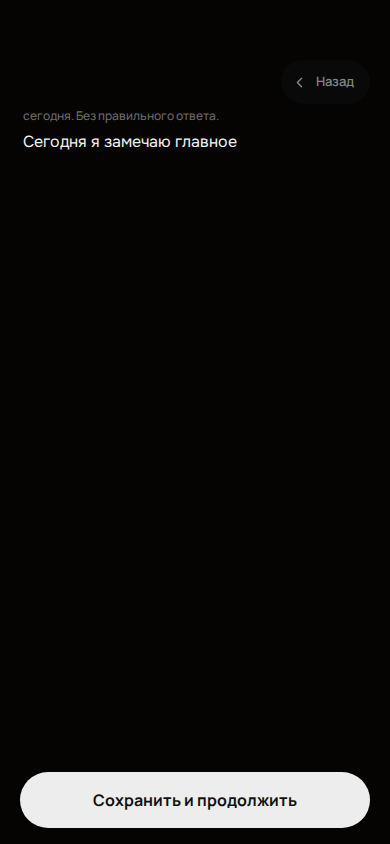
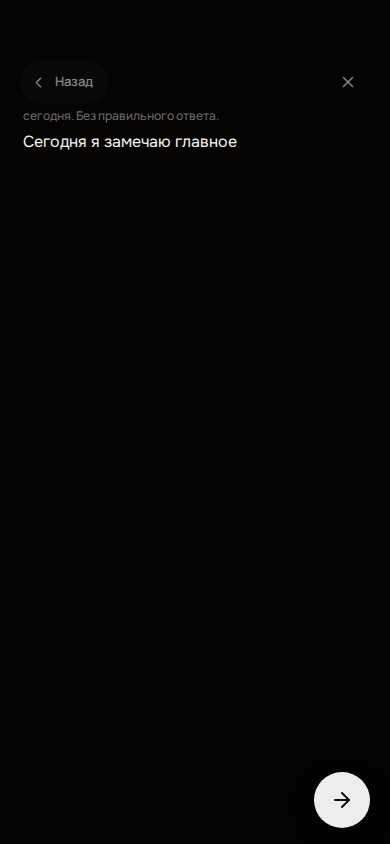
fix: guided self-discovery UX follow-up (#689)

diff --git a/src/screens/GuidedSelfDiscoveryFlow.jsx b/src/screens/GuidedSelfDiscoveryFlow.jsx
@@ -1,6 +1,7 @@
 import { getFullscreenPortalTarget } from '../lib/fullscreenSurface'
 import { useState } from 'react'
 import { createPortal } from 'react-dom'
+import { X } from 'lucide-react'
 
 import BackButton from '../components/BackButton'
 import PracticeWritingCanvas from '../components/PracticeWritingCanvas'
@@ -86,7 +87,7 @@ function emptyAnswers() {
 
 function FlowBack({ onClick }) {
   // В Telegram — только native BackButton (компонент сам монтирует hook и не рисует UI).
-  // В web — видимый app-back в header slot.
+  // В web — видимые Back и Close-кнопки в header slot.
   if (platformName === 'telegram') {
     return <BackButton onClick={onClick} />
   }
@@ -95,6 +96,14 @@ function FlowBack({ onClick }) {
       className={`${FULLSCREEN_HEADER_SLOT_CLASS} guided-self-discovery__topbar flex items-center px-5`}
     >
       <BackButton onClick={onClick} />
+      <button
+        type="button"
+        aria-label="Закрыть"
+        onClick={onClick}
+        className="guided-self-discovery__close"
+      >
+        <X size={18} aria-hidden="true" />
+      </button>
     </div>
   )
 }
@@ -313,6 +322,7 @@ export default function GuidedSelfDiscoveryFlow({ userId, onClose }) {
           <FlowBack onClick={goBack} />
           <div className={FULLSCREEN_SCROLL_CLASS}>
             <PracticeWritingCanvas
+              key={step.key}
               value={value}
               onChange={next => updateAnswer(step.key, next)}
               question={step.title}
@@ -340,7 +350,11 @@ export default function GuidedSelfDiscoveryFlow({ userId, onClose }) {
         />
       )}
 
-      <WebActionBar action={action} />
+      <WebActionBar
+        action={action}
+        compact={stage === 'writing'}
+        className="guided-self-discovery__action-bar"
+      />
     </div>,
     getFullscreenPortalTarget()
   )

diff --git a/src/screens/GuidedSelfDiscoveryFlow.css b/src/screens/GuidedSelfDiscoveryFlow.css
@@ -3,7 +3,22 @@
 }
 
 .mx-practice-flow--self-discovery .guided-self-discovery__topbar {
-  justify-content: flex-end;
+  justify-content: space-between;
+}
+
+.mx-practice-flow--self-discovery .guided-self-discovery__close {
+  display: grid;
+  width: 44px;
+  height: 44px;
+  place-items: center;
+  border: 0;
+  border-radius: 50%;
+  background: rgb(var(--c-emerald));
+  color: rgb(var(--c-muted));
+}
+
+.mx-practice-flow--self-discovery .guided-self-discovery__close:active {
+  transform: scale(0.95);
 }
 
 .mx-practice-flow--self-discovery .guided-self-discovery__intro {
@@ -325,6 +340,26 @@
   color: rgb(var(--c-muted));
   font-size: 13px;
   font-weight: 600;
+}
+
+/* Journal web/PWA only: mirror Stoic's compact bottom-right next action. */
+.mx-practice-flow--self-discovery .guided-self-discovery__action-bar .mx-reference-next {
+  display: grid;
+  width: 56px;
+  height: 56px;
+  min-height: 56px;
+  margin-left: auto;
+  padding: 0;
+  place-items: center;
+  border: 0;
+  border-radius: 50%;
+  background: var(--btn-bg);
+  color: var(--btn-text);
+  box-shadow: var(--shadow-float-compact);
+}
+
+.mx-practice-flow--self-discovery .guided-self-discovery__action-bar .mx-reference-next:disabled {
+  opacity: 0.4;
 }
 
 @media (max-height: 650px) {

diff --git a/src/components/WebActionBar.jsx b/src/components/WebActionBar.jsx
@@ -33,6 +33,7 @@ export default function WebActionBar({ action, secondaryAction, className = '', 
       {action && (
         <button
           type="button"
+          aria-label={action.text}
           onClick={() => {
             platform.haptic('light')
             action.onClick()

diff --git a/docs/audit/guided-self-discovery-ux-fix-2026-09-19.md b/docs/audit/guided-self-discovery-ux-fix-2026-09-19.md
@@ -12,6 +12,12 @@ scope: GuidedSelfDiscoveryFlow only
 
 `GuidedSelfDiscoveryFlow` до правки передавал `onSubmit` непосредственно в `PracticeWritingCanvas`. Кнопка перехода поэтому жила в локальном absolute/fixed dock внутри canvas и зависела от visual viewport и keyboard-offset логики canvas. Это был отдельный механизм, а не контракт `CheckIn`; на реальном iPhone в Telegram dock оказывался под клавиатурой. Дополнительное расхождение: flow не оборачивал содержимое intro/writing/completion в `FULLSCREEN_SCROLL_CLASS` и держал completion primary CTA внутри completion-контента.
 
+## Диагностика новых визуальных находок
+
+1. **Крестик:** X не был случайно потерян в PR #688: его нет в текущем `main`, в базовой версии Guided flow и в исходном коммите компонента. `CheckIn.jsx` использует отдельную DOM-кнопку X справа, тогда как Guided flow исторически оставлял только BackButton. По решению владельца X добавляется только в веб/PWA-шапку; в Telegram остаётся native BackButton без DOM-оверлея.
+2. **Текст вопроса:** `PracticeWritingCanvas__question` и `PracticeWritingCanvas__description` — разные элементы. Первый — вопрос, белый display-текст; второй — приглушённая подсказка. Разная визуальная роль на скриншотах не является смешением стилей одного элемента.
+3. **Хвост предыдущего шага:** `PracticeWritingCanvas` не имел `key` на уровне шага; при смене `stepIndex` React мог переиспользовать внутренний textarea/canvas DOM. Исправление — remount canvas по стабильному `step.key`, без изменения draft-данных.
+
 ## Изменения
 
 - Guided flow теперь публикует действие текущего шага через `useMainButton` и `WebActionBar`.
@@ -19,14 +25,23 @@ scope: GuidedSelfDiscoveryFlow only
 - Intro, writing и completion используют общий `FULLSCREEN_SCROLL_CLASS`.
 - Completion primary CTA «Вернуться в дневник» перенесён в тот же action bar; внутри completion сохранено вторичное действие «Начать заново».
 - Вопросы, тексты, draft-модель и сохранение ответов не менялись.
-- Responsive UX-сценарий обновлён под широкий action bar и сохраняет screenshots для всех семи шагов и completion.
+- Responsive UX-сценарий проверяет compact action bar и сохраняет screenshots для всех семи шагов и completion.
 
 ## Проверки
 
 - `npm run check:core` — passed.
 - `npm run ux:check` — 11/11 passed.
 - `npx playwright test --config=playwright.mxl246.config.mjs` — 8/8 passed на 390×844, 768×1024, 1024×768 и 1440×900.
-- В `qa-evidence/mxl-246/390x844/` сохранены состояния 390×844; contact sheet доступен как `390x844-journal-after-contact-sheet.png`.
+- В `qa-evidence/mxl-246/390x844/` сохранены состояния 390×844; `02-journal-writer-before-round.png` — before, `02-journal-writer.png` — after.
+- Новая regression-проверка — 8/8 passed после добавления веб-X и `key={step.key}`; before/after для всех 7 writing-состояний сохранены как `*-before-header.png` и соответствующие after PNG.
+
+## Telegram MainButton — результат разведки
+
+Официальная документация Telegram Web Apps описывает актуальный объект как `BottomButton` (для main-кнопки это прежний `MainButton`). В `setParams` перечислены `text`, `color`, `text_color`, `has_shine_effect`, `icon_custom_emoji_id`, `position` для secondary-кнопки, `is_active` и `is_visible`; отдельного параметра для размера, ширины, `border-radius` или формы нет. CSS веб-приложения не управляет нативным Telegram UI. Поэтому сделать нативный Telegram MainButton круглым в рамках текущего API нельзя.
+
+Кастомный DOM-оверлей вместо нативной кнопки намеренно не добавлялся. Круглый вариант сделан только для собственного WebActionBar в Safari/standalone: compact mode использует 56×56px, белый круг и шеврон, с сохранением существующего `shrink-0`/visualViewport keyboard-safe расположения. Остальные экраны и общий WebActionBar не изменены.
+
+Источник: [Telegram Mini Apps — BottomButton](https://core.telegram.org/bots/webapps#bottombutton).
 
 ## Gate перед merge
 
